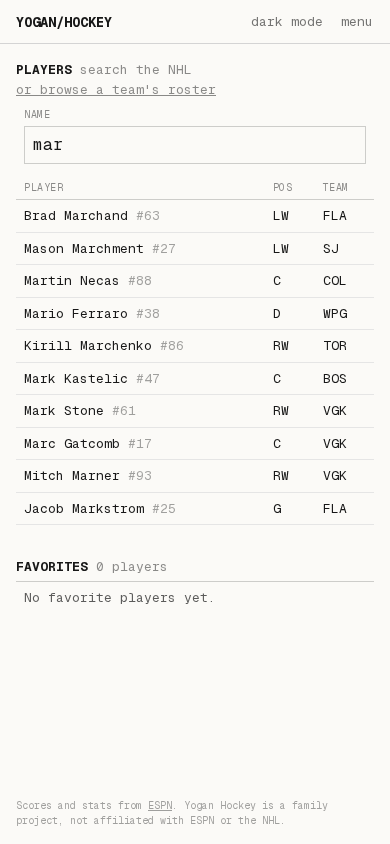
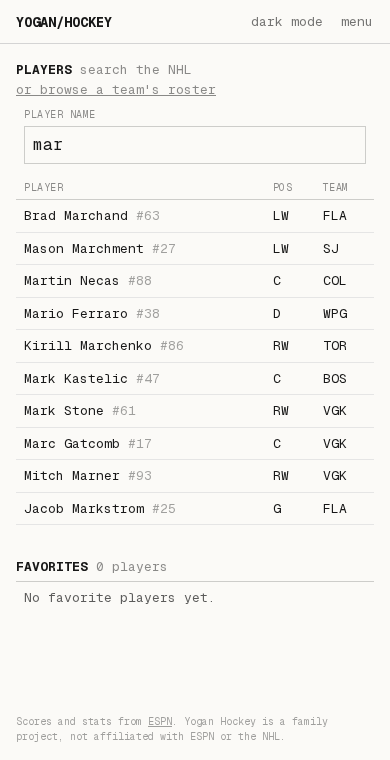
Players: fixes from the code review (#44)
A parse failure is an unavailable search, not an error page; arriving at
/players by a link starts the search box anew; a failed action reloads what is
in the box now; the results' status is read out, not the whole table; shots are
counted only from a log that is the season's games and no others.

diff --git a/apps/web/app/players/player-search.tsx b/apps/web/app/players/player-search.tsx
@@ -23,15 +23,16 @@ export function PlayerSearch({ initial }: { initial: Search }) {
   const [searching, startSearch] = useTransition();
   // Answers can arrive out of order; only the answer to the latest question is shown.
   const asked = useRef(0);
+  // What is in the box now, which may be more than was last asked.
+  const typed = useRef(initial.query);
   const inputId = useId();
 
-  const ask = useDebouncedCallback((typed: string) => {
+  const ask = useDebouncedCallback(() => {
     const ticket = ++asked.current;
-    const query = typed.trim();
-    const href = searchHref(query);
+    const query = typed.current.trim();
     // Before the call, not after: when the site has been deployed under an open tab, vinext
     // drops the action's answer and reloads the URL the action was called from.
-    window.history.replaceState(null, "", href);
+    window.history.replaceState(null, "", searchHref(query));
     if (query.length < MIN_SEARCH_LENGTH) {
       setSearch({ status: "idle", query, players: [] });
       return;
@@ -40,19 +41,23 @@ export function PlayerSearch({ initial }: { initial: Search }) {
       // No answer is a failed call: `undefined` from a tab older than the deploy (see above), or
       // a throw when the request never arrived.
       const answer = await searchPlayers(query).catch(() => undefined);
-      if (ticket !== asked.current) return;
-      if (answer) setSearch(answer);
-      // The same search by URL needs no action, so a stale tab recovers by loading it.
-      else if (navigator.onLine) window.location.assign(href);
-      else setSearch({ status: "unavailable", query, players: [] });
+      if (answer) {
+        if (ticket === asked.current) setSearch(answer);
+        return;
+      }
+      // The same search by URL needs no action, so a stale tab recovers by loading it: whatever
+      // is in the box by now, not what this call asked.
+      if (navigator.onLine) window.location.assign(searchHref(typed.current));
+      else if (ticket === asked.current) setSearch({ status: "unavailable", query, players: [] });
     });
   }, TYPING_PAUSE_MS);
 
-  const type = (typed: string) => {
-    setText(typed);
-    ask(typed);
+  const onType = (value: string) => {
+    typed.current = value;
+    setText(value);
+    ask();
     // Clearing the box clears the results at once; only a search waits for a pause.
-    if (typed.trim().length < MIN_SEARCH_LENGTH) ask.flush();
+    if (value.trim().length < MIN_SEARCH_LENGTH) ask.flush();
   };
 
   const submit = (event: FormEvent) => {
@@ -68,14 +73,14 @@ export function PlayerSearch({ initial }: { initial: Search }) {
             htmlFor={inputId}
             className="block py-1 text-[10px] text-foreground/50 uppercase tracking-wider"
           >
-            name
+            player name
           </label>
           <input
             id={inputId}
             name="q"
             type="search"
             value={text}
-            onChange={(event) => type(event.target.value)}
+            onChange={(event) => onType(event.target.value)}
             maxLength={MAX_SEARCH_LENGTH}
             autoComplete="off"
             autoCorrect="off"
@@ -86,20 +91,28 @@ export function PlayerSearch({ initial }: { initial: Search }) {
           />
         </form>
       </search>
-      <div aria-live="polite" aria-busy={searching} className="mt-3">
-        <SearchAnswer search={search} />
+      <div aria-busy={searching} className="mt-3">
+        {/* Read out as the results change: the count or the message, never the whole table. */}
+        <p
+          role="status"
+          className={
+            search.status === "found" && search.players.length > 0
+              ? "sr-only"
+              : "px-2 text-foreground/70"
+          }
+        >
+          {searchSummary(search)}
+        </p>
+        {search.players.length > 0 && <PlayerLedger players={search.players} />}
       </div>
     </>
   );
 }
 
-function SearchAnswer({ search }: { search: Search }) {
-  if (search.status === "idle") return null;
-  if (search.status === "unavailable") {
-    return <p className="px-2 text-foreground/70">Search is not answering. Try again shortly.</p>;
-  }
-  if (search.players.length === 0) {
-    return <p className="px-2 text-foreground/70">No player matches "{search.query}".</p>;
-  }
-  return <PlayerLedger players={search.players} />;
+function searchSummary(search: Search): string {
+  if (search.status === "idle") return "";
+  if (search.status === "unavailable") return "Search is not answering. Try again shortly.";
+  const found = search.players.length;
+  if (found === 0) return `No player matches "${search.query}".`;
+  return `${found} ${found === 1 ? "player" : "players"} found.`;
 }

diff --git a/apps/web/lib/player-view.ts b/apps/web/lib/player-view.ts
@@ -95,6 +95,11 @@ function statValue(
   return index < 0 ? undefined : values[index];
 }
 
+/** A display string as a number: "1,234" is 1234. NaN when it is not a number. */
+function asNumber(shown: string | undefined): number {
+  return shown === undefined || shown === "" ? Number.NaN : Number(shown.replace(/,/g, ""));
+}
+
 export type CareerRow = {
   key: string;
   /** "26-27" */
@@ -126,8 +131,8 @@ function careerHeadline(career: PlayerCareer): HeadlineStat[] {
     return column && value !== undefined ? [{ label: shownLabel(column, false).label, value }] : [];
   });
 
-  const games = Number(statValue(career.columns, career.totals, "games"));
-  const points = Number(statValue(career.columns, career.totals, "points"));
+  const games = asNumber(statValue(career.columns, career.totals, "games"));
+  const points = asNumber(statValue(career.columns, career.totals, "points"));
   if (!isGoalie && games > 0 && Number.isFinite(points)) {
     // The Parity Reference heads this "PPG", which the table beside it uses for power-play goals.
     headline.push({ label: "P/GP", value: (points / games).toFixed(2) });
@@ -227,11 +232,17 @@ export function seasonView(
     };
   }
 
-  const shots = season !== null && log.season?.startsWith(season) ? shotsIn(log) : undefined;
+  // The log's shots are the season's only when the log is that season and nothing else: ESPN's
+  // log can hold playoff games beside the regular season's, so its games must number his GP.
+  const sameSeason = season !== null && log.season?.startsWith(season);
+  const sameGames = log.games.length === asNumber(statValue(career.columns, row.values, "games"));
+  const shots = sameSeason && sameGames ? shotsIn(log) : undefined;
   const wanted = profile.position === "G" ? GOALIE_SEASON : SKATER_SEASON;
   const stats = wanted.flatMap((name): SeasonStat[] => {
     if (name === "shotsTotal") {
-      return shots === undefined ? [] : [{ label: "SOG", value: shots, rank: rankOf(name) }];
+      return shots === undefined
+        ? []
+        : [{ label: LABELS.shotsTotal ?? "SOG", value: shots, rank: rankOf(name) }];
     }
     const column = career.columns.find((candidate) => candidate.name === name);
     const value = statValue(career.columns, row.values, name);

diff --git a/e2e/players.spec.ts b/e2e/players.spec.ts
@@ -7,7 +7,7 @@ test("/players searches as the visitor types and keeps the search in the URL", a
   await expect(page).toHaveTitle("Players · Yogan Hockey");
   await expect(page.getByRole("heading", { name: "Favorites" })).toBeVisible();
 
-  const box = page.getByRole("searchbox", { name: "name" });
+  const box = page.getByRole("searchbox", { name: "player name" });
   const results = page.getByRole("table").getByRole("link");
   // Typing before the page has hydrated searches for nothing, so type until a search lands.
   await expect(async () => {
@@ -22,11 +22,22 @@ test("/players searches as the visitor types and keeps the search in the URL", a
   await expect(first).toContainText("FLA");
   await expect(first.getByRole("link")).toHaveAttribute("href", "/players/3852");
 
+  // The box was typed in throughout: a search does not start it anew.
+  await expect(box).toBeFocused();
+
   // The search is in the URL, so the server renders the same results on a reload.
   await expect(page).toHaveURL(/\/players\?q=mar$/);
   await page.reload();
   await expect(box).toHaveValue("mar");
   await expect(results).toHaveCount(10);
+
+  // Arriving by a link starts the box from that link's URL.
+  await expect(async () => {
+    await page.getByRole("complementary").getByRole("link", { name: "players" }).click();
+    await expect(box).toHaveValue("", { timeout: 1000 });
+  }).toPass();
+  await expect(page).toHaveURL(/\/players$/);
+  await expect(results).toHaveCount(0);
 });
 
 test("/players/:id shows a player's season, games and career", async ({ page }) => {

diff --git a/apps/web/components/players/player-sections.tsx b/apps/web/components/players/player-sections.tsx
@@ -43,18 +43,16 @@ function StatColumn({ column }: { column: ShownColumn }) {
   );
 }
 
-/** The cells of one row of stats. `strong` names the column that is the row's key figure. */
+/** The cells of one row of stats. Points are the key figure of a row that has them. */
 function StatCells({
   columns,
   values,
-  strong = "points",
 }: {
   columns: readonly ShownColumn[];
   values: readonly string[];
-  strong?: string;
 }) {
   return columns.map((column, index) => (
-    <LedgerCell key={column.name} numeric tone={column.name === strong ? "strong" : "default"}>
+    <LedgerCell key={column.name} numeric tone={column.name === "points" ? "strong" : "default"}>
       {values[index]}
     </LedgerCell>
   ));
@@ -218,7 +216,7 @@ export function GameLogSection({
 }: {
   log: GameLogView;
   allHref: string;
-  latestHref: string;
+  latestHref?: string;
 }) {
   const shown = log.rows.length;
   return (
@@ -234,7 +232,7 @@ export function GameLogSection({
         ) : (
           <>
             {log.gameCount} {log.gameCount === 1 ? "game" : "games"}
-            {latestHref !== "" && (
+            {latestHref && (
               <>
                 {" · "}
                 <Link href={latestHref} className="underline">

diff --git a/apps/web/lib/player-view.test.ts b/apps/web/lib/player-view.test.ts
@@ -382,3 +382,27 @@ test("the bio lists what ESPN has, and a goalie catches where a skater shoots", 
     { label: "catches", value: "Left" },
   ]);
 });
+
+test("shots are not counted from a log that holds more than the season's games", () => {
+  // Three games in the log against a career row of two: ESPN lists playoff games beside them.
+  const twoGames: PlayerCareer = {
+    ...skaterCareer,
+    seasons: skaterCareer.seasons.map((row) =>
+      row.year === 2027 ? { ...row, values: ["2", ...row.values.slice(1)] } : row,
+    ),
+  };
+
+  const view = seasonView(profile({}), twoGames, skaterLog);
+
+  expect(view?.stats.map((stat) => stat.label)).not.toContain("SOG");
+});
+
+test("points per game reads totals written with a thousands separator", () => {
+  const long: PlayerCareer = {
+    ...skaterCareer,
+    totals: ["1,487", "894", "1,963", "2,857", ...skaterCareer.totals.slice(4)],
+  };
+
+  // 2857 points in 1487 games.
+  expect(careerView(long)?.headline.at(-1)).toEqual({ label: "P/GP", value: "1.92" });
+});

diff --git a/apps/web/lib/players.ts b/apps/web/lib/players.ts
@@ -1,4 +1,4 @@
-import { EspnFetchError } from "@yogan-hockey/espn";
+import { EspnFetchError, EspnParseError } from "@yogan-hockey/espn";
 import type {
   PlayerCareer,
   PlayerGameLog,
@@ -31,7 +31,8 @@ export async function findPlayers(rawQuery: string): Promise<PlayerSearch> {
   try {
     return { status: "found", query, players: await cachedPlayerSearch(query) };
   } catch (error) {
-    if (!(error instanceof EspnFetchError)) throw error;
+    // Down, or answering in a shape this site no longer reads: either way there is no search.
+    if (!(error instanceof EspnFetchError || error instanceof EspnParseError)) throw error;
     console.error(error);
     return { status: "unavailable", query, players: [] };
   }

diff --git a/apps/web/app/players/page.tsx b/apps/web/app/players/page.tsx
@@ -25,8 +25,10 @@ export default async function PlayersPage({
             or browse a team's roster
           </Link>
         </SectionHeader>
-        {/* Keyed by the URL's search, so following a link to another search starts the box anew. */}
-        <PlayerSearch key={search.query} initial={search} />
+        {/* A new key with every render of the page, so arriving by a link (the sidebar, Back)
+            starts the box from this URL. Typing renders nothing here: it calls the action and
+            rewrites the address, so the box keeps its place while it is typed in. */}
+        <PlayerSearch key={crypto.randomUUID()} initial={search} />
       </Section>
       <FavoritePlayers />
     </>

diff --git a/apps/web/lib/players.test.ts b/apps/web/lib/players.test.ts
@@ -97,3 +97,10 @@ test("ESPN being down is an error, not a missing player", async () => {
 
   await expect(loadPlayer("888888888")).rejects.toMatchObject({ status: 503 });
 });
+
+test("a search ESPN answers in a shape the site cannot read is unavailable too", async () => {
+  vi.stubEnv("ESPN_FIXTURES", "");
+  fetchMock.mockImplementation(async () => new Response("not json", { status: 200 }));
+
+  expect((await findPlayers("zzz-garbled")).status).toBe("unavailable");
+});

diff --git a/apps/web/app/players/[id]/page.tsx b/apps/web/app/players/[id]/page.tsx
@@ -52,7 +52,7 @@ export default async function PlayerPage({ params, searchParams }: Props) {
         <GameLogSection
           log={log}
           allHref={`${path}?games=all#games`}
-          latestHref={everyGame && log.gameCount > LATEST_GAMES ? `${path}#games` : ""}
+          latestHref={everyGame && log.gameCount > LATEST_GAMES ? `${path}#games` : undefined}
         />
       )}
       {career ? (

diff --git a/docs/agents/build-notes.md b/docs/agents/build-notes.md
@@ -216,7 +216,7 @@ The Worker `yogan-hockey` has been live on `hockey.yogan.dev` since 2026-10-06, 
 - **A Server Action called from a tab older than the last deploy resolves with `undefined`**, without throwing. Each build has a new `x-vinext-rsc-compatibility-id`; vinext's client drops an answer whose id is not its own and hard-navigates to the URL the action was called from. So: treat no answer as a failure, and put what the action was asked into the URL before calling it, so the reload lands on a page the server can render by itself. A rebuild of unchanged code is enough to see it: `pnpm build`, `vite preview`, open the page, build and start again, use the page.
 - **The server half of a file reaches the client if a client component imports it.** `lib/players.ts` imports the cache; a client component may import its types (`import type`) and nothing else. What both sides need at run time lives in `lib/player-search.ts`.
 - **`history.replaceState` changes the URL and fetches nothing** under vinext: no RSC request, no re-render. The search box uses it to keep `?q=` in step with the typing; a reload then renders that search on the server.
-- **A client component keeps its state when only `searchParams` change**, so a link from `/players?q=mar` to `/players` would leave "mar" in the box. Key the component by what the server read (`<PlayerSearch key={search.query} />`).
+- **A client component keeps its state when only `searchParams` change**, so a link from `/players?q=mar` to `/players` would leave "mar" in the box. Keying it by what the server read is not enough either, once the client has rewritten the URL itself: the server's `""` is the key it already had. `/players` gives the box a new key on every render of the page (`key={crypto.randomUUID()}`), which is safe because typing renders nothing on the server.
 - **A page that reads nothing from the request and omits `force-dynamic` is cached for a year** in a production build (`x-vinext-cache: HIT`, `s-maxage=31536000`); `pnpm dev` does not show it. Reading `searchParams` makes a page dynamic by itself. Check a new page with `curl -sD - -o /dev/null` against `vite preview`.
 - **`next/link` prefetches every link on screen in a production build**, and the prefetch renders the page: ten search results were ten player pages, thirty ESPN reads, per search. `pnpm dev` does not prefetch, so only a build shows it. Rows of a list take `prefetch={false}`.
 - **A `not-found.tsx` beside a page takes over when the page calls `notFound()`**, inside the shell, with a 404. Its title comes from its own `metadata` export; what `generateMetadata` returned for the page is not used.
